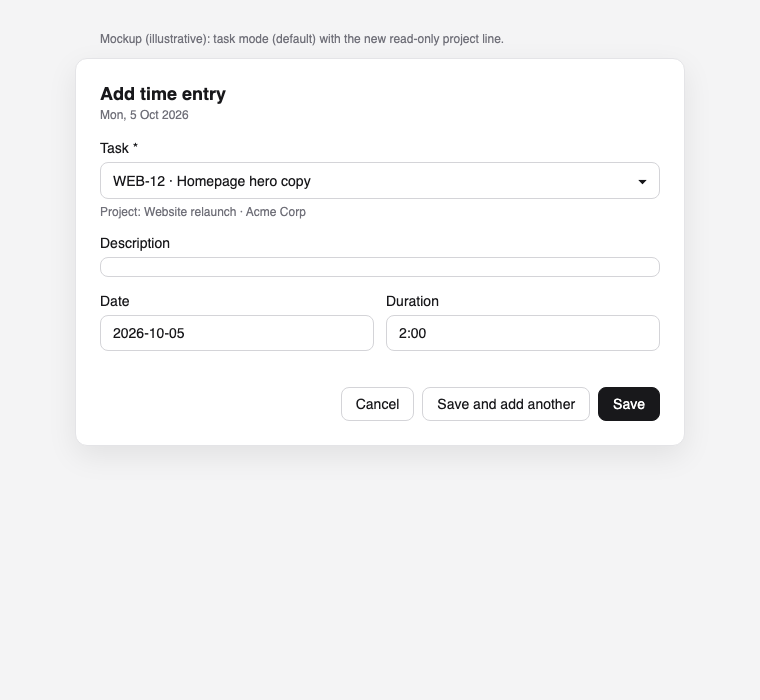
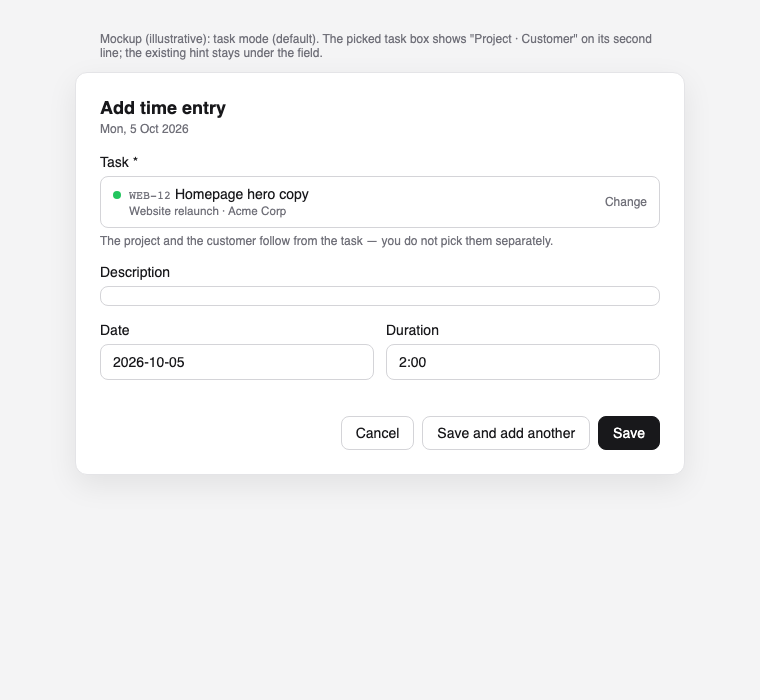
docs(specs): split sibling schema exports out of the project-mode spec
Spec review on #7000 (pkarw, 5718058063):
- The nine sibling propsSchema exports ship independently of project
  mode, so they move to their own spec
  (2026-10-30-time-tracking-component-props-schema-exports.md); this
  spec keeps only timeEntryDialogPropsSchema. Q5 and Q6 are amended and
  the title is shortened.
- TC-TT-024 now specifies the employee staff-profile fixture: read
  /api/staff/team-members/self, create it when absent, delete it in
  finally only when this test created it (TC-TT-023 pattern).
- Mockup 03 is redrawn to the amended Q3: "Project · Customer" on the
  second line of the picked task box, the existing hint under the field.

Refs #6989

diff --git a/.ai/specs/assets/time-entry-dialog-project-mode/mockup-03-dialog-task-mode.html b/.ai/specs/assets/time-entry-dialog-project-mode/mockup-03-dialog-task-mode.html
@@ -1,8 +1,8 @@
 <!doctype html><html><head><meta charset="utf-8"><link rel="stylesheet" href="style.css"></head><body>
-<p class="note">Mockup (illustrative): task mode (default) with the new read-only project line.</p>
+<p class="note">Mockup (illustrative): task mode (default). The picked task box shows "Project · Customer" on its second line; the existing hint stays under the field.</p>
 <div class="dlg"><h2>Add time entry</h2><div class="sub">Mon, 5 Oct 2026</div>
-<div class="f"><label>Task *</label><div class="in"><span>WEB-12 · Homepage hero copy</span><span>▾</span></div>
-<div class="muted">Project: Website relaunch · Acme Corp</div></div>
+<div class="f"><label>Task *</label><div class="in"><span style="display:flex;flex-direction:column;gap:2px;min-width:0"><span><span style="display:inline-block;width:8px;height:8px;border-radius:999px;background:#22c55e;margin-right:8px"></span><small style="color:#71717a;font-family:monospace">WEB-12</small> <b style="font-weight:500">Homepage hero copy</b></span><small style="color:#71717a;padding-left:16px">Website relaunch · Acme Corp</small></span><span style="color:#71717a;font-size:12px">Change</span></div>
+<div class="muted">The project and the customer follow from the task — you do not pick them separately.</div></div>
 <div class="f"><label>Description</label><div class="in"><span class="ph"> </span></div></div>
 <div class="row"><div class="f"><label>Date</label><div class="in"><span>2026-10-05</span></div></div><div class="f"><label>Duration</label><div class="in"><span>2:00</span></div></div></div>
 <div class="ft"><span class="btn">Cancel</span><span class="btn">Save and add another</span><span class="btn p">Save</span></div></div></body></html>

diff --git a/.ai/specs/2026-10-07-time-entry-dialog-project-mode.md b/.ai/specs/2026-10-07-time-entry-dialog-project-mode.md
@@ -1,4 +1,4 @@
-# TimeEntryDialog Project Mode and Exported Component Props Schemas
+# TimeEntryDialog Project Mode
 
 > Issue: #6989 (part C of umbrella #6987). Related: #6988 / PR #6998 (part B: write access checks the entry date against the assignment window).
 > Builds on: `.ai/specs/2026-08-12-time-tracking-consulting-suite.md` and `.ai/specs/2026-08-24-time-tracking-umes-extension-points.md` (EP-31 published `propsSchema`s, EP-42 setting-key registry).
@@ -6,7 +6,7 @@
 
 ## 📝 TLDR
 
-The time entry dialog (`staff.time_entry_dialog`) can only log time against a **task**: the project always comes from the selected task. Teams that track time per project (client, contract, cost centre) and do not use tasks cannot create or edit their entries there, although the data model, the time-entries API and the timesheet grid all accept project-only entries. This spec adds a **project mode** to the dialog. A new tenant setting, `defaults.entryMode` (`'task'` by default), turns it on, and an optional `mode` prop overrides it per host. In project mode the user picks a project from their accessible projects, and the task becomes optional and is filtered to that project. Task mode stays the default; the picked task box shows the task's project and customer (as it already did on `develop`), now on a second line that cannot squeeze out the title. The spec also **exports all ten published component `propsSchema`s**, so a replacement can import the exact contract instead of copying it.
+The time entry dialog (`staff.time_entry_dialog`) can only log time against a **task**: the project always comes from the selected task. Teams that track time per project (client, contract, cost centre) and do not use tasks cannot create or edit their entries there, although the data model, the time-entries API and the timesheet grid all accept project-only entries. This spec adds a **project mode** to the dialog. A new tenant setting, `defaults.entryMode` (`'task'` by default), turns it on, and an optional `mode` prop overrides it per host. In project mode the user picks a project from their accessible projects, and the task becomes optional and is filtered to that project. Task mode stays the default; the picked task box shows the task's project and customer (as it already did on `develop`), now on a second line that cannot squeeze out the title. The spec also **exports the dialog's `timeEntryDialogPropsSchema`**, so a replacement can import the exact contract, including the new `mode` field, instead of copying it. Exporting the nine sibling `propsSchema`s is a separate capability with its own spec: `.ai/specs/2026-10-30-time-tracking-component-props-schema-exports.md`.
 
 ## ✅ Decisions (Open Questions resolved on #6989)
 
@@ -16,15 +16,15 @@ The time entry dialog (`staff.time_entry_dialog`) can only log time against a **
 | Q2 | The task in project mode | Optional. The task picker lists only the chosen project's tasks; picking a task sets the project. |
 | Q3 | The project in task mode | ~~A read-only "Project · Customer" line under the task picker replaces today's hint text.~~ Amended 2026-10-12 after UI review on #7001: the line repeated what the picked task box already shows, so the box itself carries "Project · Customer" on a second line and today's hint text stays under the field. |
 | Q4 | An existing entry with no task | Opens in project mode for that entry, whatever the configured or passed mode. |
-| Q5 | Which schemas are exported, from where | All ten published `propsSchema`s, each as a named export from its own component file, documented as STABLE in EP-31. |
-| Q6 | One spec or two | One spec and one implementation PR. |
+| Q5 | Which schemas are exported, from where | ~~All ten published `propsSchema`s~~ Amended 2026-10-30 after spec review on #7000: only `timeEntryDialogPropsSchema`, as a named export from `TimeEntryDialog.tsx`, documented as STABLE in EP-31. The nine sibling schemas move to `.ai/specs/2026-10-30-time-tracking-component-props-schema-exports.md`. |
+| Q6 | One spec or two | ~~One spec and one implementation PR.~~ Amended 2026-10-30 after spec review on #7000: project mode (with the dialog's own schema export) is one spec and one implementation PR (#7001); the nine sibling schema exports are an independently deployable capability with their own spec and PR. |
 
 ## 📝 Problem Statement
 
 - `lib/time-tracking-ui/TimeEntryDialog.tsx` `validateRequired` blocks saving without a task (`staff.time_tracking.entryDialog.errors.taskRequired`).
 - `projectId = selectedTask?.timeProjectId ?? entry?.timeProjectId ?? defaults?.timeProjectId`: the user can never choose a project. An existing project-only entry (written by the grid or the API) cannot be saved from the dialog at all.
 - The server already supports project-only entries. `data/validators.ts` declares both `taskId` and `timeProjectId` `optional().nullable()` on create and update, `commands/timesheets-entries.ts` resolves the project from `timeProjectId` when there is no task, and the grid bulk save writes project-only rows.
-- `timeEntryDialogPropsSchema` and the nine sibling `propsSchema`s registered for EP-31 are module-local `const`s. A replacement has to re-declare the schema by hand. In development, `useRegisteredComponent` (`packages/ui/src/backend/injection/useRegisteredComponent.tsx`) validates props against the replacement's schema and falls back to the default component on a mismatch. A stale copy therefore silently swaps the replacement out in dev, while production still renders it.
+- `timeEntryDialogPropsSchema`, registered for EP-31, is a module-local `const`. A replacement has to re-declare the schema by hand, and this spec adds a `mode` field to it. In development, `useRegisteredComponent` (`packages/ui/src/backend/injection/useRegisteredComponent.tsx`) validates props against the replacement's schema and falls back to the default component on a mismatch. A stale copy therefore silently swaps the replacement out in dev, while production still renders it.
 
 ## 📝 Proposed Solution
 
@@ -38,7 +38,7 @@ The time entry dialog (`staff.time_entry_dialog`) can only log time against a **
    The create seed runs as soon as the dialog opens, before the settings answer on the first open of a session. The setting-driven mode is therefore applied the way the late billable default is today (`billableDefaultRef`): once per open, when the settings arrive, and only while the form is still pristine. A user who already typed keeps the mode they are in. Rules 1 and 2 need no settings and apply at seed time.
 3. **Project mode UI.** A project field sits above the task field. It is required in project mode and searches the existing, access-scoped `GET /api/staff/timesheets/time-projects` (`q`, `status=active`). The task field below it becomes optional and is filtered to the chosen project. Picking a task whose project differs from the selected one switches the project to the task's project.
 4. **Task mode UI.** Unchanged behaviour (task required, project derived). The helper hint under the picker stays. The picked task box (`TaskPicker`, outside the dialog's LOC budget) shows the task on its first line and "Project · Customer" on a second, truncated line with the full text in a tooltip; in project mode that second line is dropped because the project field above already names the project.
-5. **Schema exports.** Each of the ten `const xPropsSchema` declarations becomes `export const`. Nothing moves; the import path is the component file, already reachable through the `@open-mercato/core/modules/staff/...` wildcard export of `packages/core/package.json`.
+5. **Schema export.** `const timeEntryDialogPropsSchema` becomes `export const`. Nothing moves; the import path is the component file, already reachable through the `@open-mercato/core/modules/staff/...` wildcard export of `packages/core/package.json`. The other nine published schemas are out of scope (see the TLDR).
 
 ### Alternatives considered
 
@@ -54,26 +54,10 @@ The time entry dialog (`staff.time_entry_dialog`) can only log time against a **
 | `lib/time-tracking/settingKeys.ts` | Add `{ group: 'defaults', key: 'entryMode', schema: timeTrackingEntryModeSchema, default: 'task', labelKey: 'staff.time_tracking.settings.defaults.entryMode' }` to `BUILT_IN_SETTING_KEYS`; export `timeTrackingEntryModeSchema = z.enum(['task', 'project'])`. |
 | `lib/time-tracking/settings.ts` | Export `TIME_TRACKING_DEFAULTS_ENTRY_MODE_KEY = 'defaults.entryMode'`, append it to `TIME_TRACKING_SETTING_KEYS` (additive; the FROZEN rule forbids renames/removals, not additions), export `type TimeEntryMode = 'task' \| 'project'`, and add an **optional** `entryMode?: TimeEntryMode` to the exported `TimeTrackingEntryDefaults` (and through it to `TimeTrackingSettings['defaults']`). Absent means `'task'`; see [Typed settings compatibility](#typed-settings-compatibility-entrymode). |
 | `lib/time-tracking-ui/timeTrackingSettingsForm.ts` + `backend/staff/time-tracking/settings/page.tsx` | Add an optional `defaultsEntryMode?` to the exported `TimeTrackingSettingsDraft`, and add it to the read mapping (`settings.defaults.entryMode ?? 'task'`), the write mapping and the dirty check (each falls back to `'task'`); render a `SegmentedControl` ("Task" / "Project") in the "Entry defaults" card, gated by the page's existing manage feature. |
-| `lib/time-tracking-ui/TimeEntryDialog.tsx` | `mode` prop; effective-mode resolution; mode-aware validation, payload, focus and dirty snapshot; task filter; mounts the project field leaf; export the props schema. `readSettings` reads `defaults.entryMode` with `'task'` as the fallback. Net growth is capped (see [Frontend Architecture Contract](#-frontend-architecture-contract)). |
+| `lib/time-tracking-ui/TimeEntryDialog.tsx` | `mode` prop; effective-mode resolution; mode-aware validation, payload, focus and dirty snapshot; task filter; mounts the project field leaf; `export const timeEntryDialogPropsSchema`. `readSettings` reads `defaults.entryMode` with `'task'` as the fallback. Net growth is capped (see [Frontend Architecture Contract](#-frontend-architecture-contract)). |
 | `lib/time-tracking-ui/TimeEntryProjectField.tsx` (new) | The project-mode field as its own client leaf: `ComboboxInput`, project search and pin lookup, the `projectUnavailable` fallback label. It reports every project it resolves to the dialog through a callback, for the `projectById` merge. |
 | `lib/time-tracking-ui/timeEntryDialogState.ts` | A pure `resolveTimeEntryDialogMode({ entry, propMode, settingMode })` helper, so the precedence is unit-tested outside the component. `settingMode` accepts `undefined` and treats anything but `'project'` as `'task'`. |
-| Nine sibling component files (below) | `const` → `export const` on the `propsSchema` declaration only. |
-| `widgets/components.ts` / EP-31 docs | The handle catalogue documents the exported schema name next to each handle. |
-
-The ten exported schemas and their files:
-
-| Handle | Export | File |
-|--------|--------|------|
-| `staff.time_entry_dialog` | `timeEntryDialogPropsSchema` | `lib/time-tracking-ui/TimeEntryDialog.tsx` |
-| `staff.timer_bar` | `timerBarPropsSchema` | `lib/timesheets-ui/TimerBar.tsx` |
-| `staff.kanban_card` | `kanbanCardPropsSchema` | `lib/time-tracking-ui/KanbanCard.tsx` |
-| `staff.kanban_column` | `kanbanColumnPropsSchema` | `lib/time-tracking-ui/KanbanColumn.tsx` |
-| `staff.timesheet_grid` | `gridViewPropsSchema` | `backend/staff/time-tracking/timesheet/GridView.tsx` |
-| `staff.timesheet_list` | `listViewPropsSchema` | `lib/timesheets-ui/ListView.tsx` |
-| `staff.timesheet_calendar` | `timesheetCalendarPropsSchema` | `lib/time-tracking-ui/TimesheetCalendar.tsx` |
-| `staff.report_sheet` | `reportSheetPropsSchema` | `lib/time-tracking-ui/ReportSheet.tsx` |
-| `staff.project_card` | `projectCardPropsSchema` | `lib/timesheets-projects-ui/ProjectCard.tsx` |
-| `staff.entries_summary_footer` | `timeEntriesSummaryFooterPropsSchema` | `lib/time-tracking-ui/TimeEntriesSummaryFooter.tsx` |
+| `widgets/components.ts` / EP-31 docs | The handle catalogue documents `timeEntryDialogPropsSchema` next to the `staff.time_entry_dialog` handle. |
 
 No host page changes: every host (`backend/staff/time-tracking/page.tsx`, `timesheet/page.tsx`, `entries/page.tsx`) picks the mode up from the setting. That keeps this change off the entries list page (#6990 is changing it) and off the write path (PR #6998).
 
@@ -151,9 +135,9 @@ None. No entity, column or migration changes. The new setting is one more `Modul
 - **`GET/PUT /api/staff/timesheets/settings`** — additive: the `defaults` group gains `entryMode: 'task' | 'project'`. The PUT schema is built from the registry, so it accepts the key and defaults it when omitted; existing clients that send no `entryMode` keep working. The OpenAPI doc picks it up from the same registry.
 - **Typed settings** — `TimeTrackingEntryDefaults.entryMode` is optional; see below.
 - **`TimeEntryDialogProps`** — additive optional `mode?: 'task' | 'project'`; `timeEntryDialogPropsSchema` gains `mode: z.enum(['task', 'project']).nullable().optional()` (the prop is `TimeEntryMode | null`, `null` meaning "use the setting"). A replacement that does not declare `mode` still validates, because `z.object` strips unknown keys.
-- **Exported schemas** — ten new named exports (table above). Per `BACKWARD_COMPATIBILITY.md` (types and import paths) they become STABLE contract: shape changes from now on are additive-only.
+- **Exported schema** — one new named export, `timeEntryDialogPropsSchema` from `lib/time-tracking-ui/TimeEntryDialog.tsx`. Per `BACKWARD_COMPATIBILITY.md` (types and import paths) it becomes STABLE contract: shape changes from now on are additive-only.
 - **Injection context** — the `entryFormValues` passed to injected widgets (`onFieldChange`, render spots) gain `timeProjectId`. Additive, but observable to widgets.
-- The exported schemas keep their declared type `z.ZodType<Props>`: they are for `metadata.propsSchema` of a replacement, used as is. Consumers that want to `.extend()` one must wrap it (`z.intersection`); this is documented next to the exports in EP-31.
+- The exported schema keeps its declared type `z.ZodType<TimeEntryDialogProps>`: it is for `metadata.propsSchema` of a replacement, used as is. Consumers that want to `.extend()` it must wrap it (`z.intersection`); this is documented next to the export in EP-31.
 - No change to `POST/PUT /api/staff/timesheets/time-entries`, the bulk route or any command.
 
 ### Typed settings compatibility (`entryMode`)
@@ -169,7 +153,7 @@ None. No entity, column or migration changes. The new setting is one more `Modul
 
 ## 📝 UI/UX
 
-Illustrative mockups: [project mode](assets/time-entry-dialog-project-mode/mockup-01-dialog-project-mode.png), [project required](assets/time-entry-dialog-project-mode/mockup-02-dialog-project-required.png), [task mode with the project line](assets/time-entry-dialog-project-mode/mockup-03-dialog-task-mode.png), [settings row](assets/time-entry-dialog-project-mode/mockup-04-settings-entry-defaults.png).
+Illustrative mockups: [project mode](assets/time-entry-dialog-project-mode/mockup-01-dialog-project-mode.png), [project required](assets/time-entry-dialog-project-mode/mockup-02-dialog-project-required.png), [task mode with the project inside the picked task box](assets/time-entry-dialog-project-mode/mockup-03-dialog-task-mode.png), [settings row](assets/time-entry-dialog-project-mode/mockup-04-settings-entry-defaults.png).
 
 **Settings page — "Entry defaults" card.** A new row: label "New entries are logged against", a `SegmentedControl` with "a task" / "a project", and a hint: "Project mode lets people log time to a project without picking a task. Tasks stay optional." It saves with the page's existing Save button.
 
@@ -224,22 +208,22 @@ Illustrative mockups: [project mode](assets/time-entry-dialog-project-mode/mocku
 ## 📝 Risks & Impact Review
 
 - **Blast radius: medium.** One large shared component (~1,900 lines) changes, but only behind a mode that defaults to the current behaviour. New project-mode UI goes into a separate leaf, and the dialog's growth is capped (see the Frontend Architecture Contract). With the setting at its default and no `mode` prop, the only visible change is the two-line picked task box in task mode (Q3).
-- **Contract surfaces** (`BACKWARD_COMPATIBILITY.md`): additive only — one settings key (FROZEN list grows, nothing renamed), one **optional** field on the exported `TimeTrackingEntryDefaults` type (a legacy-shape compile fixture guards it), one optional prop, one injection-context field, ten new exports. No route, event, ACL, DI or schema change.
+- **Contract surfaces** (`BACKWARD_COMPATIBILITY.md`): additive only — one settings key (FROZEN list grows, nothing renamed), one **optional** field on the exported `TimeTrackingEntryDefaults` type (a legacy-shape compile fixture guards it), one optional prop, one injection-context field, one new export. No route, event, ACL, DI or schema change.
 - **Built-in key collision:** a third-party module that already contributes `defaults.entryMode` through `registerTimeTrackingSettingKey` would now throw at load (a contribution cannot replace a built-in). The risk is small (the key is new), but it gets an `UPGRADE_NOTES.md` line.
 - **Rebase overlap:** PR #6998 (not merged) edits `commands/timesheets-entries.ts`, the bulk route and the five staff locale files; #6990 edits `entries/page.tsx`, the time-entries list route and `DataTable`/`FilterBar`. This change touches neither command nor route, and avoids `entries/page.tsx`; the locale files will need a trivial merge.
 - **Rollback:** revert the PR. A stored `defaults.entryMode` row becomes an unregistered key and is ignored by the registry-driven read; project-only entries created meanwhile are valid data the API already supported.
 
 ## 📋 Phasing
 
-- **Phase 1 — Export the published props schemas.** Independently shippable, no behaviour change.
+- **Phase 1 — Export the dialog's props schema.** Independently shippable, no behaviour change.
 - **Phase 2 — The `defaults.entryMode` setting.** Key, types, settings page control, locales. No dialog change yet; the stored value is simply unused.
 - **Phase 3 — Dialog project mode.** Mode resolution, project field, task filtering, validation, payload, tests and docs.
 
 ## 📋 Implementation Plan
 
-### Phase 1 — Exported schemas
-1. As its own commit (so it can be reverted alone): change the ten `const …PropsSchema` declarations to `export const` (files in the Architecture table). Add a unit test `lib/time-tracking-ui/__tests__/componentPropsSchemas.test.tsx` that imports each export and asserts it is a zod schema that accepts a minimal valid props object for its component (and rejects one with a non-function callback). Verify: the test passes; `yarn typecheck`.
-2. Document the exports in the EP-31 section of `.ai/specs/2026-08-24-time-tracking-umes-extension-points.md` (changelog entry) and in the staff `AGENTS.md` component-replacement notes. Verify: `yarn agents:check-budget`.
+### Phase 1 — Exported schema
+1. As its own commit (so it can be reverted alone): change `const timeEntryDialogPropsSchema` to `export const`. Add a unit test `lib/time-tracking-ui/__tests__/componentPropsSchemas.test.tsx` that imports the export and asserts it is a zod schema that accepts a minimal valid props object (and rejects one with a non-function callback); the sibling-exports spec extends the same test file. Verify: the test passes; `yarn typecheck`.
+2. Document the export in the EP-31 section of `.ai/specs/2026-08-24-time-tracking-umes-extension-points.md` (changelog entry) and in the staff `AGENTS.md` component-replacement notes. Verify: `yarn agents:check-budget`.
 
 ### Phase 2 — Setting
 3. Add `timeTrackingEntryModeSchema` and the built-in `defaults.entryMode` key in `settingKeys.ts`; add the constant, the type and the **optional** `TimeTrackingEntryDefaults.entryMode?` field in `settings.ts`. Every consumer of the type falls back to `'task'` when the field is absent (`toSettingsDraft`, the dialog's `readSettings`, `resolveTimeEntryDialogMode`). Add the **legacy-shape compile fixture** `lib/time-tracking/settings.typecheck.tsx`. It follows the `*.typecheck.tsx` convention, is imported by nothing at runtime, and sits outside `__tests__` so that `yarn typecheck` compiles it. It assigns the pre-change literal `{ billable: true, chainStartFromPreviousEnd: false }` to `TimeTrackingEntryDefaults`, a pre-change settings literal (all eight built-in keys, no `entryMode`) to `TimeTrackingSettings`, and a draft without `defaultsEntryMode` to `TimeTrackingSettingsDraft`. Add runtime tests that a settings object without `entryMode` maps to `'task'` in `toSettingsDraft`, `toSettingsPayload` and `resolveTimeEntryDialogMode`. Keep `TIME_TRACKING_SETTING_KEYS` and the built-in id set in lockstep (`settingKeys.test.ts` asserts they are equal), and update every hard-coded "eight" (comments in `settings.ts`, `settingKeys.ts`, `timeTrackingSettingsForm.ts`, `data/validators.ts`, staff `AGENTS.md`, the tests). Update `settingKeys.test.ts` / `settings.test.ts` (nine built-ins; default `'task'`; an invalid stored value falls back). Add the `UPGRADE_NOTES.md` line for the built-in key collision. Verify: those tests and `yarn typecheck`. To prove the fixture is live, add a required field to it temporarily and check that `yarn typecheck` fails.
@@ -250,6 +234,7 @@ Illustrative mockups: [project mode](assets/time-entry-dialog-project-mode/mocku
 6. Dialog plumbing: `mode` prop and schema field, `readSettings` reads `entryMode`, resolve the mode at seed time (rules 1–2) and apply the setting late while pristine (rule 3, `billableDefaultRef` pattern), add a unit test where settings resolve after the dialog opens, add `timeProjectId` to form state, `FormValues`, `formSnapshot`, `resetForm` and `buildPayload`; in task mode `timeProjectId` stays derived exactly as today. Verify: the existing `TimeEntryDialog.test.tsx` stays green.
 7. Project field and task filter: the new client leaf `TimeEntryProjectField.tsx` (under 300 LOC), which holds the `ComboboxInput` project field (search and pinned selection; a non-ok pin → `projectUnavailable`) and reports each resolved project to the dialog for the `projectById` merge. Then the dialog wiring: `timeProjectId` filter on the task directory/search requests and on recent/pinned/by-id tasks, `project` in `FieldIssues`/`readFieldIssues`, project↔task consistency rules, mode-aware `validateRequired` and focus target, and the dialog locale keys in all five files. Extend `TimeEntryDialog.test.tsx`: project mode saves a project-only entry; task optional; filtered task requests; task from another project switches the project; project-only entry opens in project mode under task default; prop overrides setting; project required error; task mode keeps the hint and hands the task's project to the picker; a 404 pin shows the fallback label without a flash; rate preview uses a searched project beyond the first page. Add a `TimeEntryProjectField` unit test (search, pin, 404 fallback). Verify: unit tests, `yarn i18n:check-sync`, `yarn i18n:check-usage`, the FAC evidence (`yarn check:client-boundaries` before and after with unchanged page-root and heavy-import counts; `wc -l` showing `TimeEntryDialog.tsx` at most +200 LOC over its base and the leaf under 300), and open the follow-up issue that decomposes the dialog.
 8. Integration test `__integration__/TC-TT-024.spec.ts`. It is self-contained: fixtures are created through the API, the previous `defaults.entryMode` is read in setup and restored in `finally`, and every created entry, task and project is deleted in `finally`. Each case creates its own projects (and a customer where needed) and assigns the `employee` integration user to them through the API. The dialog is opened with "Add entry" on the entries list (a dialog host).
+   - **Employee staff profile.** Project assignment needs the `employee` user's staff-member id, and a clean environment has no seeded staff data. Each case that assigns the employee first reads `GET /api/staff/team-members/self` with the employee's token. When `member` is null it creates the profile with `POST /api/staff/team-members/self` (a stamped `displayName`), reads `self` again for the id, and records `created: true`; otherwise it records the existing id with `created: false`. In `finally`, after the case's entries, assignments and projects are deleted, a profile with `created: true` is deleted through `DELETE /api/staff/team-members` with the admin token; an existing profile is left alone. This follows `ensureSelfStaffMemberId` in `__integration__/TC-TT-023.spec.ts` and its teardown.
    - **Case 1 — project-only entry.** Set `defaults.entryMode=project` through `PUT /api/staff/timesheets/settings`. Pick the project, leave the task empty, enter a duration and save. Assert through `GET /api/staff/timesheets/time-entries` that `taskId` is null and `timeProjectId` matches. Reopen the entry, assert project mode with the project selected, change the duration, save, and assert the update kept it project-only.
    - **Case 2 — access scoping.** The employee is a member of project A but not project B. The project field lists A and not B.
    - **Case 3 — task-mode project in the task box.** With the setting at `task`, the project field is absent, and after a task is picked the picked task box shows the task's project (`task-picker-selected-project`) while the hint under the field does not repeat it.
@@ -292,3 +277,4 @@ Illustrative mockups: [project mode](assets/time-entry-dialog-project-mode/mocku
 - 2026-10-07 — Fresh-context review applied: late setting application, project-mode-only dirty snapshot, `projectById` merge, 404 pin handling, `ComboboxInput` instead of `LookupSelect`, task filtering of recent/pinned tasks, access-scoping integration case, key-collision and "eight" wording notes, sibling i18n key names.
 - 2026-10-09 — Spec review on #7000 (haxiorz, 5458686481): `TimeTrackingEntryDefaults.entryMode` is now **optional** with a `'task'` fallback at every consumer. This replaces the required-field decision recorded in the implementation-review entry above, and that entry's type `UPGRADE_NOTES.md` line is no longer needed. Added a legacy-shape compile fixture (`settings.typecheck.tsx`, matching #7001) outside `__tests__`, because neither `yarn typecheck` nor the core Jest transform type-checks test files. Added the Frontend Architecture Contract: boundary map, `use client` ledger, the `TimeEntryProjectField` leaf, a +200 LOC growth cap and a decomposition follow-up for the dialog, budgets, provider scope and the evidence plan. Added TC-TT-024 case 4 (project-scoped tasks, offered and accepted) and case 5 (the real settings control persists across a reload), and corrected the coverage table and the compliance row. Split the settings-failure edge case into "fails" and "slow but succeeds", following the pristine-only, once-per-open rule. Aligned the Phase 1 test file name and the TC-TT-024 host page with #7001.
 - 2026-10-12 — UI review on #7001 (haxiorz, issuecomment-6081172715): Q3 amended. The read-only "Project · Customer" line under the task field duplicated the picked task box, whose chip also overflowed with long names and pushed the Change action past the border. The box now shows the project and customer on its own second line, the hint under the field is `develop`'s, the two `projectReadOnly*` keys are dropped, and the footer shortcut hint wraps as whole groups. TC-TT-024 case 3 asserts the project inside the box (`task-picker-selected-project`).
+- 2026-10-30 — Spec review on #7000 (pkarw, 5718058063): the nine sibling `propsSchema` exports are split into their own spec, `.ai/specs/2026-10-30-time-tracking-component-props-schema-exports.md`, because they ship independently of project mode; this spec keeps only `timeEntryDialogPropsSchema` (Q5 and Q6 amended, title shortened). TC-TT-024 now specifies the employee staff-profile fixture (`GET`/`POST /api/staff/team-members/self`, deleted in `finally` only when created), following TC-TT-023. Mockup 03 redrawn to the amended Q3: "Project · Customer" on the second line of the picked task box, the existing hint under the field.
